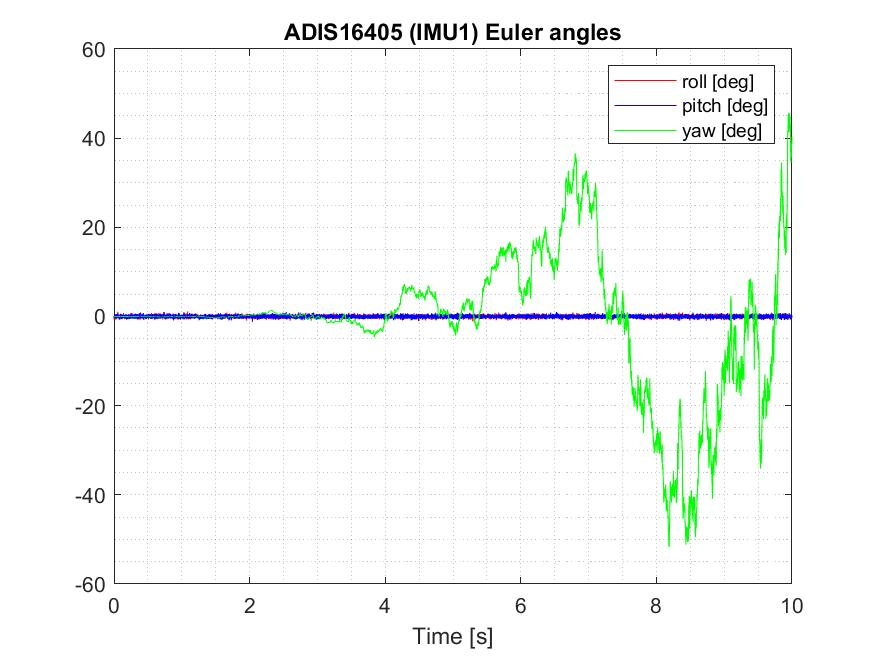
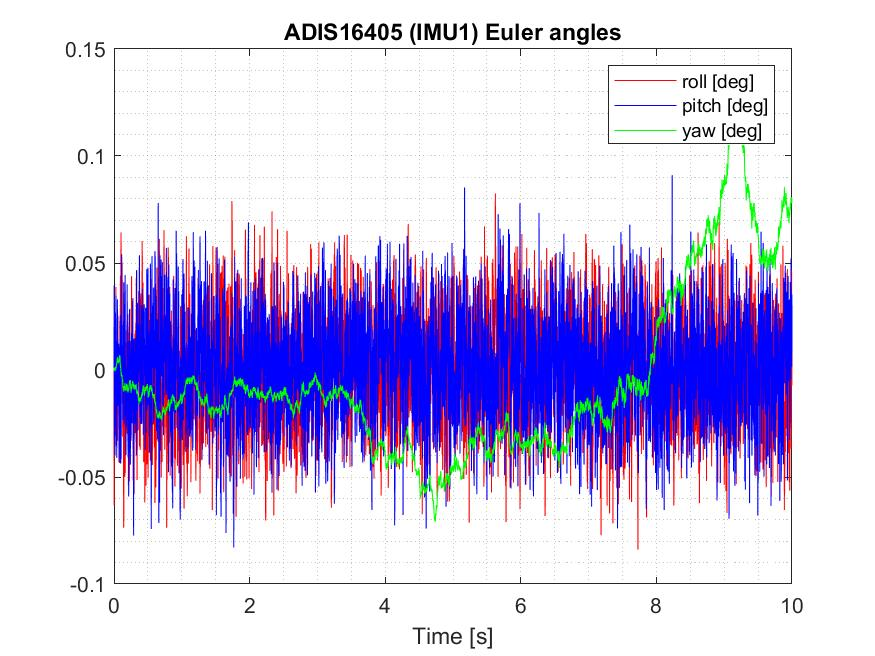
Yaw does not diverge. Magnetometer improvement pending.

diff --git a/synthetic-data/static_IMU/static_IMU.m b/synthetic-data/static_IMU/static_IMU.m
@@ -17,67 +17,16 @@ addpath ../../conversions/
 addpath ../../kalman/
 addpath ../../performance_analysis/
 
-%% CONVERSION CONSTANTS
+%% GENERATE SYNTHETIC DATA
 
-G =  9.80665;       % Gravity constant, m/s^2
-G2MSS = G;          % g to m/s^2
-MSS2G = (1/G);      % m/s^2 to g
+imu1.ini_align_err = deg2rad([0.5, 0.5, 0.5]);
+imu1.g_std = [0.01, 0.01, 0.01];
+imu1.a_std = [0.01, 0.01, 0.01];
+imu1.ini_align = deg2rad([0, 0, 0]);
+imu1.gb_dyn = [0.001, 0.001, 0.001]; 
 
-D2R = (pi/180);     % degrees to radians
-R2D = (180/pi);     % radians to degrees
-
-KT2MS = 0.514444;   % knot to m/s
-MS2KMH = 3.6;       % m/s to km/h
-
-%% REFERENCE DATA
-
-load ref.mat
-
-% ref.mat contains a reference data structure from which inertial
-% sensors wil be simulated. It must contain the following fields:
-
-%         t: Nx1 time vector (seconds).
-%       lat: Nx1 latitude (radians).
-%       lon: Nx1 longitude (radians).
-%         h: Nx1 altitude (m).
-%       vel: Nx3 NED velocities (m/s).
-%      roll: Nx1 roll angles (radians).
-%     pitch: Nx1 pitch angles (radians).
-%       yaw: Nx1 yaw angle vector (radians).
-%   DCMnb_m: Nx9 matrix with nav-to-body direct cosine matrices (DCM).
-%            Each row of DCMnb_m contains the 9 elements of a particular DCMnb
-%            matrix ordered as [a11 a21 a31 a12 a22 a32 a13 a23 a33].
-%      freq: sampling frequency (Hz).
-
-%% ADIS16405: IMU1 error profile
-
-% IMU data structure:
-%         t: Ix1 time vector (seconds).
-%        fb: Ix3 accelerations vector in body frame XYZ (m/s^2).
-%        wb: Ix3 turn rates vector in body frame XYZ (radians/s).
-%       arw: 1x3 angle random walks (rad/s/root-Hz).
-%      arrw: 1x3 angle rate random walks (rad/s^2/root-Hz).
-%       vrw: 1x3 velocity random walks (m/s^2/root-Hz).
-%      vrrw: 1x3 velocity rate random walks (m/s^3/root-Hz).
-%     g_std: 1x3 gyros standard deviations (radians/s).
-%     a_std: 1x3 accrs standard deviations (m/s^2).
-%    gb_sta: 1x3 gyros static biases or turn-on biases (radians/s).
-%    ab_sta: 1x3 accrs static biases or turn-on biases (m/s^2).
-%    gb_dyn: 1x3 gyros dynamic biases or bias instabilities (radians/s).
-%    ab_dyn: 1x3 accrs dynamic biases or bias instabilities (m/s^2).
-%   gb_corr: 1x3 gyros correlation times (seconds).
-%   ab_corr: 1x3 accrs correlation times (seconds).
-%    gb_psd: 1x3 gyros dynamic biases PSD (rad/s/root-Hz).
-%    ab_psd: 1x3 accrs dynamic biases PSD (m/s^2/root-Hz);
-%      freq: 1x1 sampling frequency (Hz).
-% ini_align: 1x3 initial attitude at t(1), [roll pitch yaw] (rad).
-% ini_align_err: 1x3 initial attitude errors at t(1), [roll pitch yaw] (rad).
-
-
-load imu1.mat
 N = 10000;
 imu1.t = linspace(0,10,N);
-imu1.ini_align = [0,0,0];
 wbx = zeros(N,1) + imu1.g_std(1)*randn(N,1);
 wby = zeros(N,1) + imu1.g_std(2)*randn(N,1); 
 wbz = zeros(N,1) + imu1.g_std(3)*randn(N,1); 
@@ -120,134 +69,62 @@ saveas(figure(2),'IMU1_angularvelocities_raw.jpg')
 % title('IMU1 Local magnetic field [Gauss]')
 % legend('mx','my','mz')
 % saveas(figure(3),'IMU1_magnetometer_raw.jpg')
-%% ADIS16488 IMU2 error profile
-
-% IMU data structure:
-%         t: Ix1 time vector (seconds).
-%        fb: Ix3 accelerations vector in body frame XYZ (m/s^2).
-%        wb: Ix3 turn rates vector in body frame XYZ (radians/s).
-%       arw: 1x3 angle random walks (rad/s/root-Hz).
-%      arrw: 1x3 angle rate random walks (rad/s^2/root-Hz).
-%       vrw: 1x3 velocity random walks (m/s^2/root-Hz).
-%      vrrw: 1x3 velocity rate random walks (m/s^3/root-Hz).
-%     g_std: 1x3 gyros standard deviations (radians/s).
-%     a_std: 1x3 accrs standard deviations (m/s^2).
-%    gb_sta: 1x3 gyros static biases or turn-on biases (radians/s).
-%    ab_sta: 1x3 accrs static biases or turn-on biases (m/s^2).
-%    gb_dyn: 1x3 gyros dynamic biases or bias instabilities (radians/s).
-%    ab_dyn: 1x3 accrs dynamic biases or bias instabilities (m/s^2).
-%   gb_corr: 1x3 gyros correlation times (seconds).
-%   ab_corr: 1x3 accrs correlation times (seconds).
-%    gb_psd: 1x3 gyros dynamic biases PSD (rad/s/root-Hz).
-%    ab_psd: 1x3 accrs dynamic biases PSD (m/s^2/root-Hz);
-%      freq: 1x1 sampling frequency (Hz).
-% ini_align: 1x3 initial attitude at t(1), [roll pitch yaw] (rad).
-% ini_align_err: 1x3 initial attitude errors at t(1), [roll pitch yaw] (rad).
-
-load imu2.mat
-N = 10000;
-imu2.t = linspace(0,10,N);
-imu2.ini_align = [0,0,0];
-
-wbx = zeros(N,1) + imu2.g_std(1)*randn(N,1);
-wby = zeros(N,1) + imu2.g_std(2)*randn(N,1);
-wbz = zeros(N,1) + imu2.g_std(3)*randn(N,1);
-
-
-imu2.wb = [wbx, wby, wbz];
-
-abx = zeros(N,1) + imu2.a_std(1)*randn(N,1);
-aby = zeros(N,1) + imu2.a_std(2)*randn(N,1);
-abz = -9.81*ones(N,1) + imu2.a_std(3)*randn(N,1);
-
-imu2.fb = [abx, aby, abz];
-
-% mnx = 0.22*ones(length(imu2.t),1);
-% mny = zeros(length(imu2.t),1);
-% mnz = 0.17*ones(length(imu2.t),1);
-% 
-% imu2.mn = [mnx, mny, mnz];
-
-figure(4)
-plot(imu2.t,imu2.fb(:,1), 'r', imu2.t, imu2.fb(:,2), 'b', imu2.t, imu2.fb(:,3), 'g')
-xlabel('Time [s]')
-grid on
-title('IMU2 Acceleration raw measurements body frame [m/s^2]')
-legend('ax','ay','az')
-saveas(figure(4),'IMU1_accelerations_raw.jpg')
-
-figure(5)
-plot(imu2.t,imu2.wb(:,1), 'r', imu2.t, imu2.wb(:,2), 'b', imu2.t, imu2.wb(:,3), 'g')
-xlabel('Time [s]')
-grid on
-title('IMU2 Angular velocity measurements body frame [rad/s]')
-legend('wx','wy','wz')
-saveas(figure(5),'IMU1_angularvelocities_raw.jpg')
 
 %% SENSOR FUSION AND FILTER
 
 [nav1, kf1] = imu_filter(imu1);
 
-[nav2, kf2] = imu_filter(imu2);
 
 
+%% COMPARISON ATTITUDE COMPUTER
+[quat, euler] = attitude_computer(imu1);
 
-%% PLOTS
 
-figure(6)
-plot(nav1.t, nav1.qua(:,1), 'r', nav1.t, nav1.qua(:,2), 'c', nav1.t, nav1.qua(:,3), 'g', nav1.t, nav1.qua(:,4), 'k')
+figure(5)
+plot(imu1.t, quat(:,1), 'r', imu1.t, quat(:,2), 'c', imu1.t, quat(:,3), 'g', imu1.t, quat(:,4), 'k')
 xlabel('Time [s]')
 legend('q1', 'q2', 'q3', 'q4')
 grid minor
-title('ADIS16405 (IMU1) quaternions')
-%xlim([-20, imu1.t(end) + 20])
-ylim([-1.2 1.2])
+title('ADIS16405 (IMU1) attitude computer quaternions')
 legend('location','southeast')
-saveas(figure(6),'IMU1_quaternions_EKF.jpg')
+
+
+
+figure(6)
+plot(imu1.t, rad2deg(euler(:,1)), 'r', imu1.t, rad2deg(euler(:,2)), 'b', imu1.t, rad2deg(euler(:,3)), 'g')
+legend('roll [deg]', 'pitch [deg]', 'yaw [deg]')
+xlabel('Time [s]')
+grid minor
+title('ADIS16405 (IMU1) attitude computer Euler angles')
+
+for i = 1:length(nav1.t)
+    nav1.quat_error_norm(i,1) = norm(nav1.deltaxp(1:3,:));
+    nav1.dyn_bias_norm(i,1) = norm(nav1.deltaxp(4:6,:));
+end
 
 
 figure(7)
-plot(nav1.t, nav1.roll, 'r', nav1.t, nav1.pitch, 'b', nav1.t, nav1.yaw, 'g')
-legend('roll [deg]', 'pitch [deg]', 'yaw [deg]')
+plot(nav1.t, nav1.quat_error_norm, 'r', nav1.t, nav1.dyn_bias_norm, 'b')
 xlabel('Time [s]')
 grid minor
-title('ADIS16405 (IMU1) Euler angles')
-%xlim([-20, imu1.t(end) + 20])
-saveas(figure(7),'IMU1_EulerAngles_EKF.jpg')
+legend('\deltaq','\delta\zeta')
+%xlim([-20, nav1.t(end) + 20])
+title('Errors')
+
 
 figure(8)
-plot(nav2.t, nav2.roll, 'r', nav2.t, nav2.pitch, 'b', nav2.t, nav2.yaw, 'g')
-legend('roll [deg]', 'pitch [deg]', 'yaw [deg]')
+plot(imu1.t, quat(:,1), 'r', imu1.t, quat(:,2), 'c', imu1.t, quat(:,3), 'g', imu1.t, quat(:,4), 'k', ...
+     nav1.t, nav1.qua(:,1), '--r', nav1.t, nav1.qua(:,2), '--c', nav1.t, nav1.qua(:,3), '--g', nav1.t, nav1.qua(:,4), '--k')
 xlabel('Time [s]')
+legend('q1', 'q2', 'q3', 'q4','q1 Kalman','q2 Kalman','q3 Kalman', 'q4 Kalman')
 grid minor
-title('ADIS16488 (IMU2) Euler angles')
-%xlim([-20, imu1.t(end) + 20])
-saveas(figure(8),'IMU2_EulerAngles_EKF.jpg')
-
+title('Attitude computer vs Kalman filter. Quaternions')
+legend('location','southeast')
 
 figure(9)
-plot(nav2.t, nav2.qua(:,1), 'r', nav2.t, nav2.qua(:,2), 'c', nav2.t, nav2.qua(:,3), 'g', nav2.t, nav2.qua(:,4), 'k')
-xlabel('Time [s]')
-legend('q1', 'q2', 'q3', 'q4')
-grid minor
-title('ADIS16488 (IMU2) quaternions')
-%xlim([-20, imu1.t(end) + 20])
-ylim([-1.2 1.2])
-legend('location','southeast')
-saveas(figure(9),'IMU2_quaternions_EKF.jpg')
-
-for i = 1:length(nav1.t)
-    nav1.quat_error_norm(i,1) = norm(nav1.deltaxp(i,:));
-end
-
-for i = 1:length(nav2.t)
-    nav2.quat_error_norm(i,1) = norm(nav2.deltaxp(i,:));
-end
-
-figure(10)
-plot(nav1.t, nav1.quat_error_norm, 'r', nav2.t, nav2.quat_error_norm, 'b')
-legend('\deltaq IMU1', '\deltaq IMU2')
+plot(imu1.t, rad2deg(euler(:,1)), 'r', imu1.t, rad2deg(euler(:,2)), 'b', imu1.t, rad2deg(euler(:,3)), 'g', ...
+     nav1.t, nav1.roll, '--r', nav1.t, nav1.pitch, '--b', nav1.t, nav1.yaw, '--g')
+legend('roll', 'pitch', 'yaw', 'roll Kalman', 'pitch Kalman', 'yaw Kalman')
 xlabel('Time [s]')
 grid minor
-%xlim([-20, nav1.t(end) + 20])
-title('Quaternion error')
+title('Attitude computer vs Kalman filter. Euler angles [deg]')

diff --git a/kalman/imu_filter.m b/kalman/imu_filter.m
@@ -94,9 +94,7 @@ nav.Pp = zeros(LI, 36);          % A posteriori covariance matrices, Pp
 nav.K  = zeros(LI, 18);          % Kalman gain matrices, K
 nav.S  = zeros(LI, 9);           % Innovation matrices, S
 nav.ob = zeros(LI, 1);           % Number of observable states at each acceleromter data
-%nav.deltay_prop = zeros(LI,3);   % Propagated measurement error
 nav.deltar = zeros(LI,3);        % Error residual
-nav.deltay = zeros(LI,3);        % Estimated measurement error
 nav.wb = zeros(LI, 3);           % Corrected angular velocity
 
 % Prior estimates for initial update
@@ -106,7 +104,7 @@ kf.Pi = diag([imu.ini_align_err, imu.gb_dyn].^2);
 ge = 9.81;
 g_n = [0; 0; ge];
 ab = imu.fb(1,:)';
-kf.deltay = -DCMbn*ab - g_n;
+kf.deltar = -DCMbn*ab - g_n;
 
 
 
@@ -115,7 +113,7 @@ kf.H = [skewm(g_n) O];
 
 % Correction covariance matrix, constant value over time
 kf.R = diag([imu.a_std]).^2;
-kf.R = diag([0.0001, 0.0001, 0.0001]).^2;
+%kf.R = diag([0.0001, 0.0001, 0.0001]).^2;
 
 % Propagate prior estimates to get xp(1) and Pp(1)
 kf = kf_update_acc( kf );
@@ -128,13 +126,13 @@ nav.Pi = reshape(kf.Pi, 1, 36);
 
 nav.deltaxp(1,:) = kf.deltaxp;
 nav.Pp(1,:) = reshape(kf.Pp, 1, 36);
-nav.deltay(1,:) = kf.deltay;
-
+nav.deltar(1,:) = kf.deltar;
+nav.wb(1,:) = imu.wb(1,:)' - gb_dyn;
 
 
 % Prediction covariance matrix, constant value over time
 kf.Q  = diag([imu.g_std, imu.gb_dyn].^2);
-kf.Q  = diag([1, 1, 1, 1, 1, 1].^2);
+%kf.Q  = diag([1, 1, 1, 1, 1, 1].^2);
 
 
 for i = 2:LI
@@ -150,13 +148,13 @@ for i = 2:LI
 
       % KALMAN FILTER      
           % PREDICTION         
-          kf.F = [-skewm(wb_corrected) -I; O O];
+          kf.F = [skewm(wb_corrected) -I; O O];
           %kf.J = [-DCMbn -I O; O O I];
           kf.G = [-I O; O I];
           
           % CORRECTION
           ab = imu.fb(i,:)';
-          kf.deltay = -DCMbn*ab - g_n;
+          kf.deltar = -DCMbn*ab - g_n;
           
           % Execution of the Extended Kalman filter
           kf.deltaxp = zeros(length(kf.deltaxp),1);           % states 1:3 are forced to be zero (error-state approach)
@@ -205,9 +203,7 @@ for i = 2:LI
           nav.K(i,:)            = reshape(kf.K, 1, 18);
           nav.S(i,:)            = reshape(kf.S, 1, 9);
           nav.ob(i,:)           = ob;
-          %nav.deltay_prop(i,:)  = kf.deltay_prop;
           nav.deltar(i,:)       = kf.deltar;
-          nav.deltay(i,:)       = kf.deltay;
           nav.wb(i,:)           = wb_corrected;
 
 end

diff --git a/kalman/kf_update_acc.m b/kalman/kf_update_acc.m
@@ -25,13 +25,10 @@ function  kf = kf_update_acc(kf)
 kf.S = (kf.R + kf.H * kf.Pi * kf.H');
 kf.K = (kf.Pi * kf.H') * (kf.S)^(-1);
 
-%kf.deltay_prop = kf.H * kf.deltaxi;
-kf.deltar = kf.deltay;
-%- kf.deltay_prop;
-kf.deltaxp = kf.K * kf.deltar + kf.deltaxi;
+kf.deltaxp = kf.K * kf.deltar;
 
-kf.Pp = (eye(6) - kf.K * kf.H)*kf.Pi;
-%kf.Pp = kf.Pi - kf.K * kf.S * kf.K';
+%kf.Pp = (eye(6) - kf.K * kf.H)*kf.Pi;
+kf.Pp = kf.Pi - kf.K * kf.S * kf.K';
 kf.Pp =  0.5 .* (kf.Pp + kf.Pp');               % Force Pi to be a symmetric matrix
 
 
